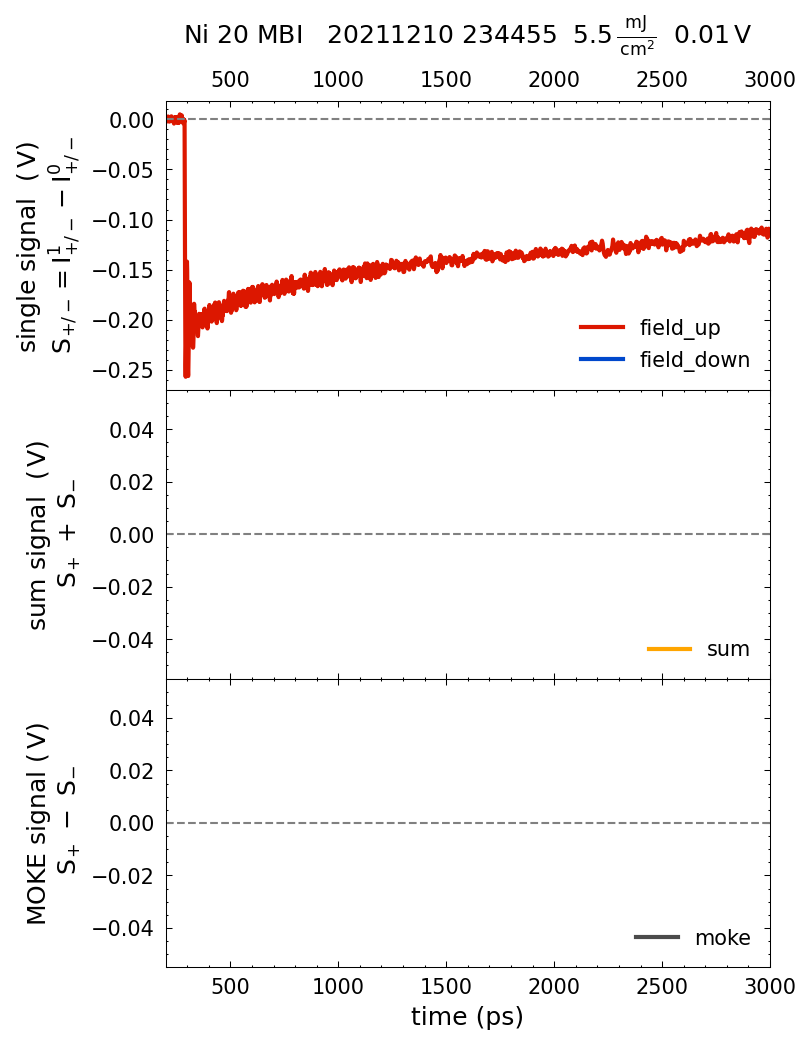
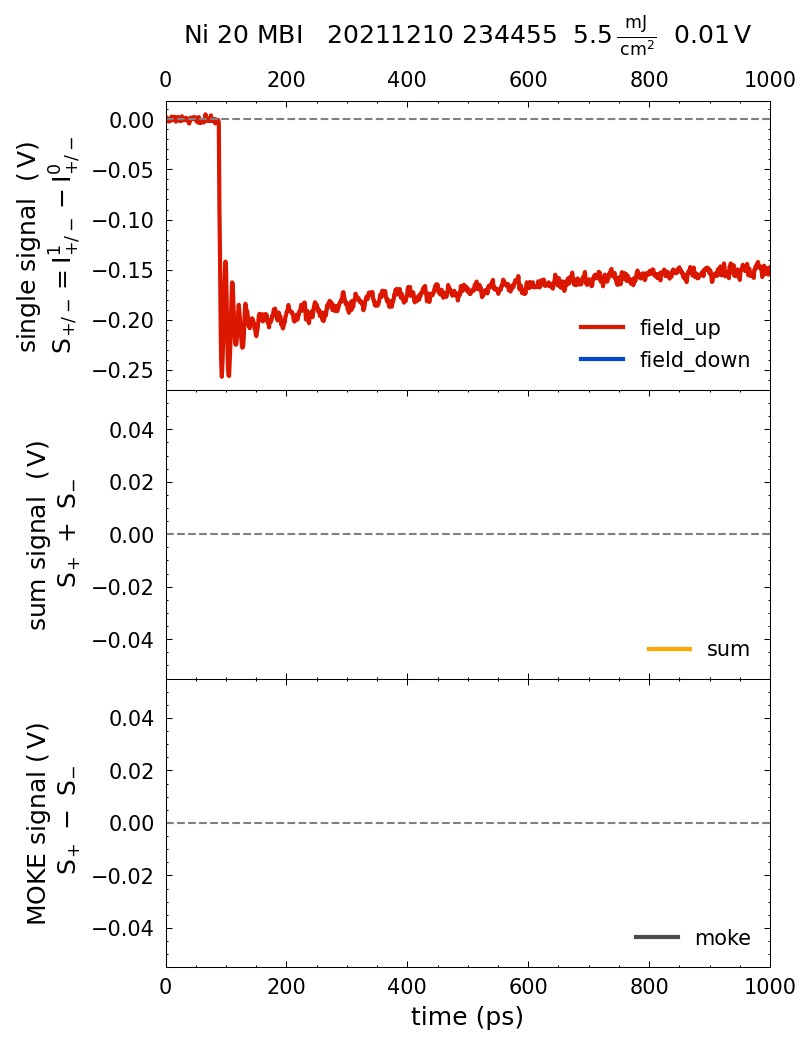
clean up and finalize moke example 1

diff --git a/udkm/moke/example/example1_standard_moke.py b/udkm/moke/example/example1_standard_moke.py
@@ -4,75 +4,28 @@ Created on Mon Feb 28 09:58:07 2022
 
 @author: Aleks
 """
-import pickle
 import udkm.moke.functions as moke
-import udkm.tools.functions as tools
-import numpy as np
-import matplotlib.pyplot as plt
-import udkm.tools.colors as colors
-import matplotlib.gridspec as gridspec
 
-plt.style.use("udkm_base.mplstyle")
-# print(moke.teststring)
 
 parameter_file_name = "parameters/parameters_example_1.txt"
 
-
 line = 0
-
-
-def load_overview_data(params):
-    data_path = params["date"]+"_"+params["time"]+"/Fluence/"+str(params["fluence"])+"/"+str(params["voltage"])+"/"
-    prefix = "data/"
-    file_name = "overviewData.txt"
-    data = np.genfromtxt(prefix+data_path+file_name, comments="#")
-
-    scan = {}
-    scan["raw_delay"] = data[:, 0]
-    scan["delay"] = data[:, 0]
-    scan["sum"] = data[:, 1]
-    scan["moke"] = data[:, 2]
-    scan["field_up"] = data[:, 3]
-    scan["field_down"] = data[:, 4]
-
-    scan["date"] = params["date"]
-    scan["time"] = params["time"]
-
-    if params["bool_t0_shift"]:
-
-        if "t0" in params:
-            scan["delay"] = scan["raw_delay"]-params["t0"]
-            scan["t0"] = params["t0"]
-            print("t0 = " + str(scan["t0"]) + " ps")
-        else:
-            differences = np.abs(np.diff(scan[params["t0_column_name"]]))
-            t0_index = tools.find(differences, np.max(differences))
-            t0 = scan["raw_delay"][:-1][t0_index]
-            scan["t0"] = t0
-            print("t0 = " + str(scan["t0"]) + " ps")
-            scan["delay"] = scan["raw_delay"]-t0
-
-    return scan
-
 
 params = moke.get_scan_parameter(parameter_file_name, line)
 params["bool_t0_shift"] = True
 params["bool_save_plot"] = True
 params["t0_column_name"] = "moke"
 params["plot_path"] = "plot_overview//"
-params["scan_path"] = "scan_export//"
 params["t_max"] = 1000
+params["scan_path"] = "scan_export//"
+
+
 scan = moke.load_overview_data(params)
 
-# if "fluence" in params:
-#     scan["fluence"] = params["fluence"]
-# else:
-scan["fluence"] = tools.calc_fluence(params["power"], params["fwhm_x"], params["fwhm_y"],
-                                     params["pump_angle"], params["rep_rate"])
+moke.plot_overview(scan)
 
-moke.plot_overview(scan, params)
-
-# Save a dictionary into a pickle file.
-# %%
-
+# Save scan dictionary into a pickle file.
+moke.save_scan(scan)
+# Load a scan from a pickle file
 scan1 = moke.load_scan(20211119, 92027, "scan_export/")
+moke.plot_overview(scan1, **params)

diff --git a/udkm/moke/functions.py b/udkm/moke/functions.py
@@ -94,6 +94,7 @@ def load_overview_data(params):
     scan["sample"] = params["sample"]
     scan["voltage"] = params["voltage"]
     scan["id"] = params["id"]
+    scan["scan_path"] = params["scan_path"]
 
     if params["bool_t0_shift"]:
 
@@ -111,6 +112,12 @@ def load_overview_data(params):
 
     scan["fluence"] = tools.calc_fluence(params["power"], params["fwhm_x"], params["fwhm_y"],
                                          params["pump_angle"], params["rep_rate"])
+
+    title_text = scan["sample"] + "   " + scan["date"]+" "+scan["time"] + "  " + \
+        str(np.round(scan["fluence"], 1)) + r"$\mathrm{\,\frac{mJ}{\,cm^2}}$" + "  " + \
+        str(scan["voltage"]) + r"$\,$V"
+
+    scan["title_text"] = params["title_text"] = title_text
 
     return scan
 
@@ -151,11 +158,6 @@ def plot_overview(scan, **params):
     ax1.xaxis.set_ticks_position('top')
     ax2.set_xticklabels([])
 
-    title_text = scan["sample"] + "   " + scan["date"]+" "+scan["time"] + "  " + \
-        str(np.round(scan["fluence"], 1)) + r"$\mathrm{\,\frac{mJ}{\,cm^2}}$" + "  " + \
-        str(scan["voltage"]) + r"$\,$V"
-
-    scan["title_text"] = params["title_text"] = title_text
     ax1.set_title(scan["title_text"], pad=13)
 
     if "bool_save_plot" in params:
@@ -163,8 +165,8 @@ def plot_overview(scan, **params):
             plt.savefig(params["plot_path"] + scan["id"] + ".png", dpi=150)
 
 
-def save_scan(scan, params):
-    pickle.dump(scan, open(params["scan_path"] + params["id"] + ".pickle", "wb"))
+def save_scan(scan):
+    pickle.dump(scan, open(scan["scan_path"] + scan["id"] + ".pickle", "wb"))
 
 
 def load_scan(date, time, path):
